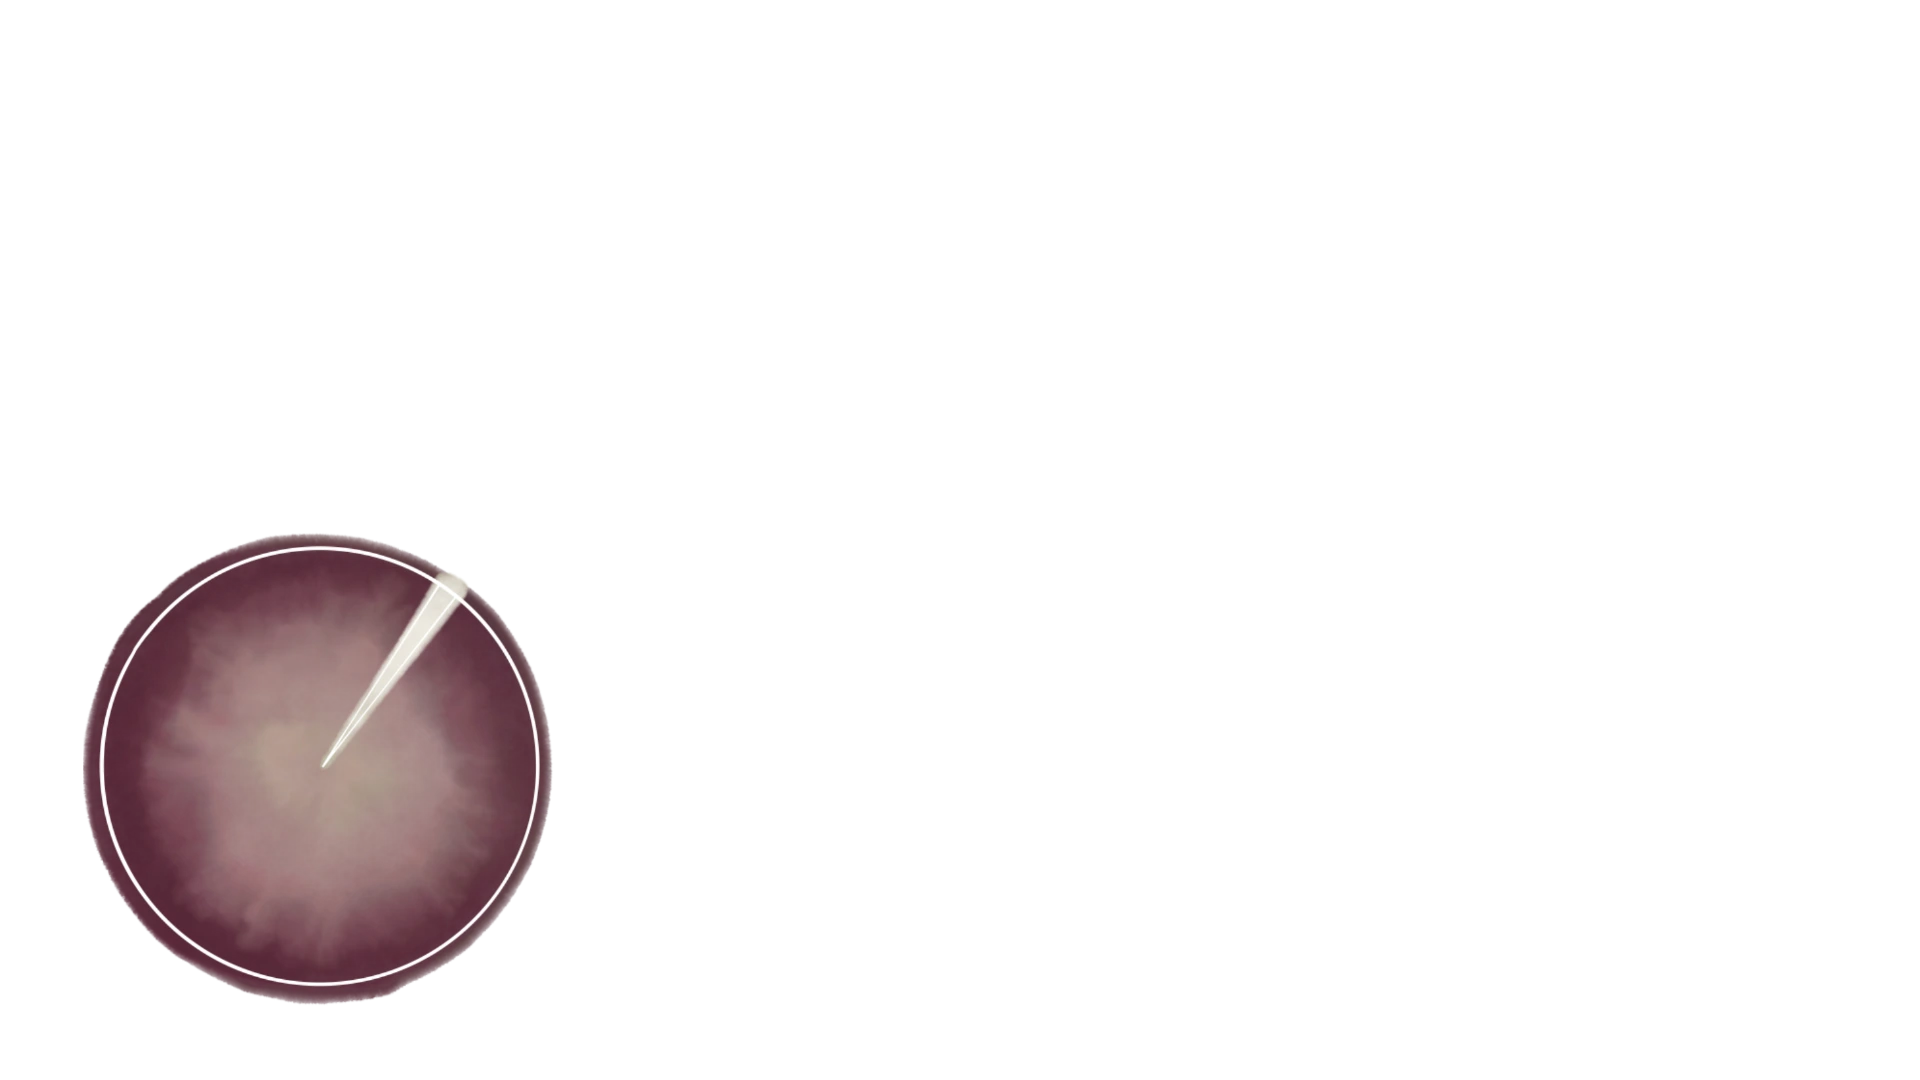
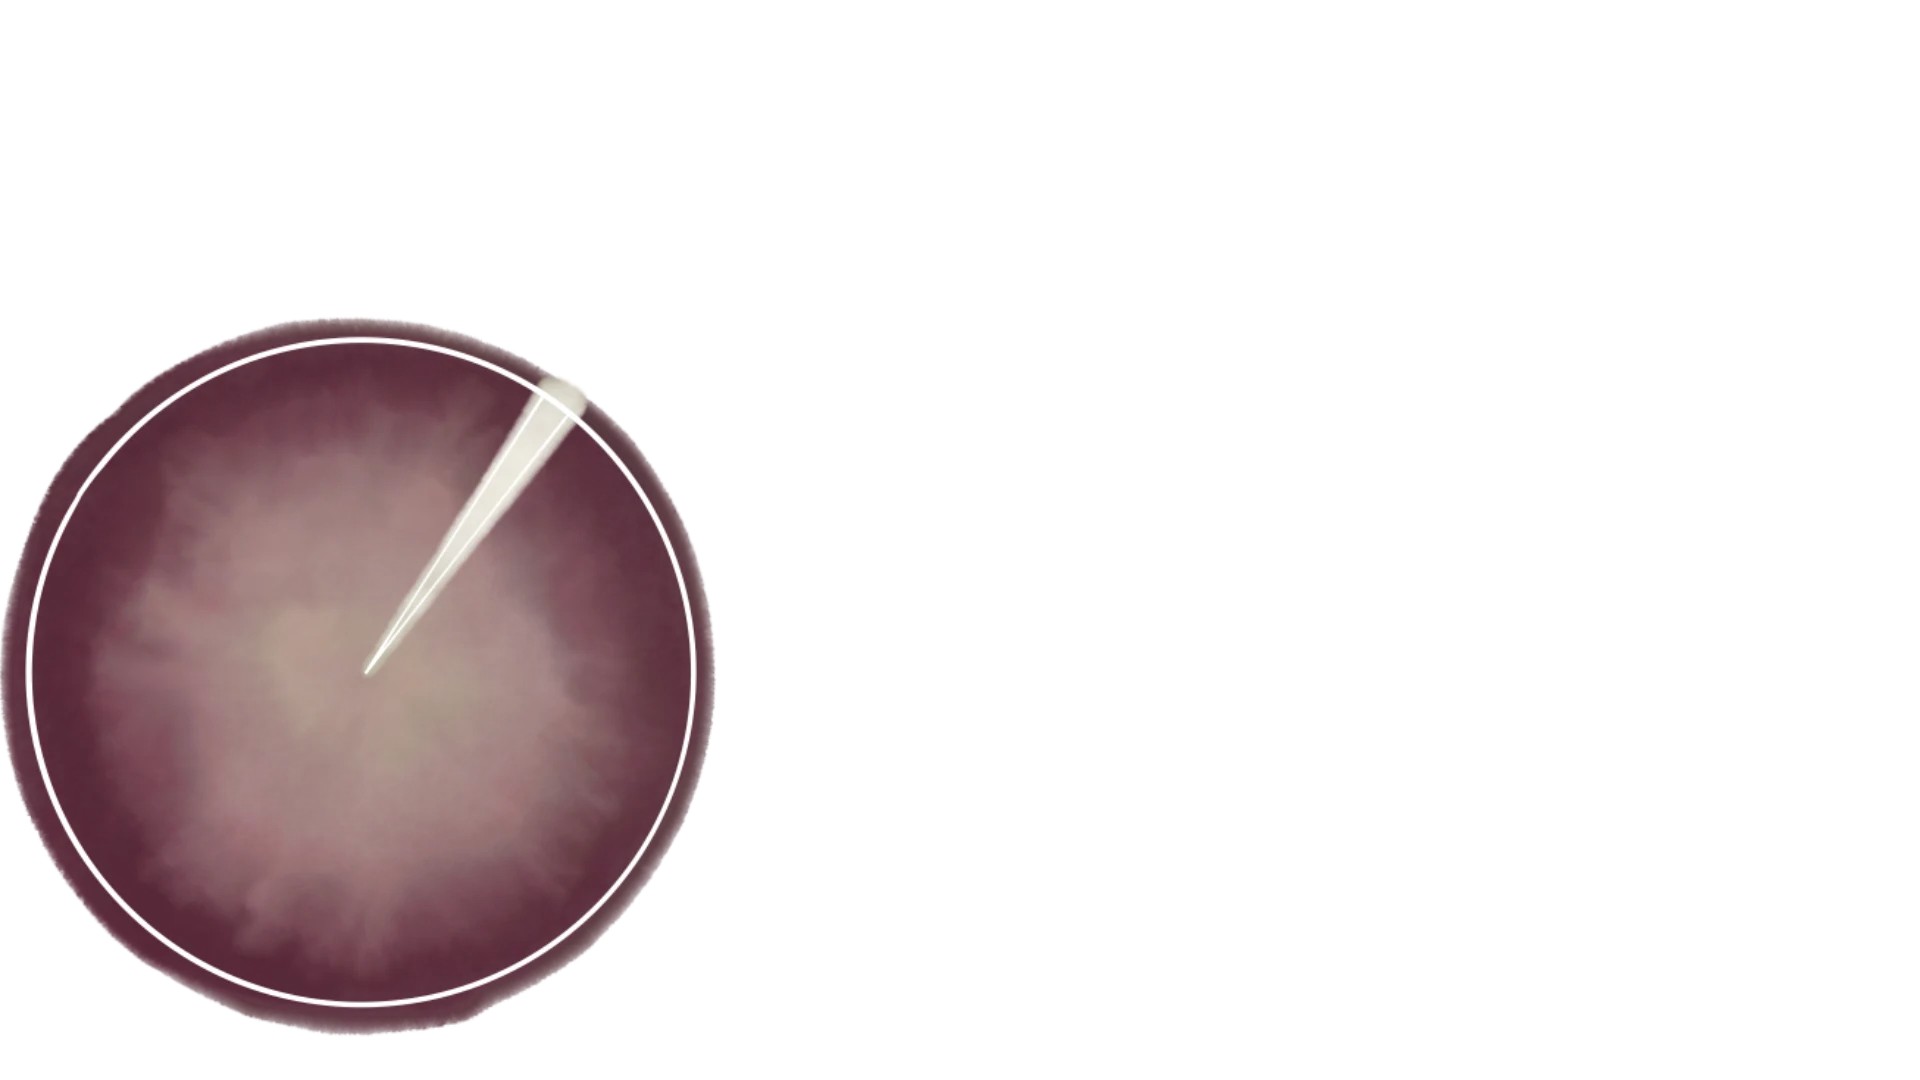
arrrr

Changed region(s): [[0.0, 0.275, 0.375, 0.9778], [0.1562, 0.7944, 0.1875, 0.8556]]

diff --git a/sketch.js b/sketch.js
@@ -121,7 +121,7 @@ let zitate = [
 // ==========================================
 
 function preload() {
-  test = loadImage('assets/Background 1.png');
+  test = loadImage('assets/Background 1.webp');
   //test2= loadImage('assets/hintergrundskizze2.jpg');
   headline = loadFont("assets/Avenir Heavy.ttf");
   fließtext = loadFont("assets/Avenir Regular.ttf");
@@ -208,13 +208,13 @@ function updateCachedValues() {
     diagram1: {
       arcX: windowWidth / 5.67,
       arcY: windowWidth / 2.67,
-      //arcS: windowWidth / 2.886044,
-      arcS: windowWidth / 4.33,
+      arcS: windowWidth / 2.886044,
+      //arcS: windowWidth / 4.33,
       rotation: HALF_PI / 1.525,
-      //imgX: windowWidth / 41.833333 - windowWidth/16,
-      //imgY: windowWidth / 10.4
-      imgX: windowWidth / 41.833333,
-      imgY: 0
+      imgX: windowWidth / 41.833333 - windowWidth/16,
+      imgY: windowWidth / 10.4
+      //imgX: windowWidth / 41.833333,
+      //imgY: 0
     },
     diagram2: {
       arcX: windowWidth / 1.46,
@@ -739,7 +739,7 @@ function drawpage2() {
   for (let i = 0; i < 5; i++) {
     // Farbe ändern bei Hover
     if (buttonHover === i) {
-      fill(80); // Hover-Farbe 
+      fill(129, 68, 86); // Hover-Farbe 
     } else {
       fill(100); // Normale Farbe 
     }
